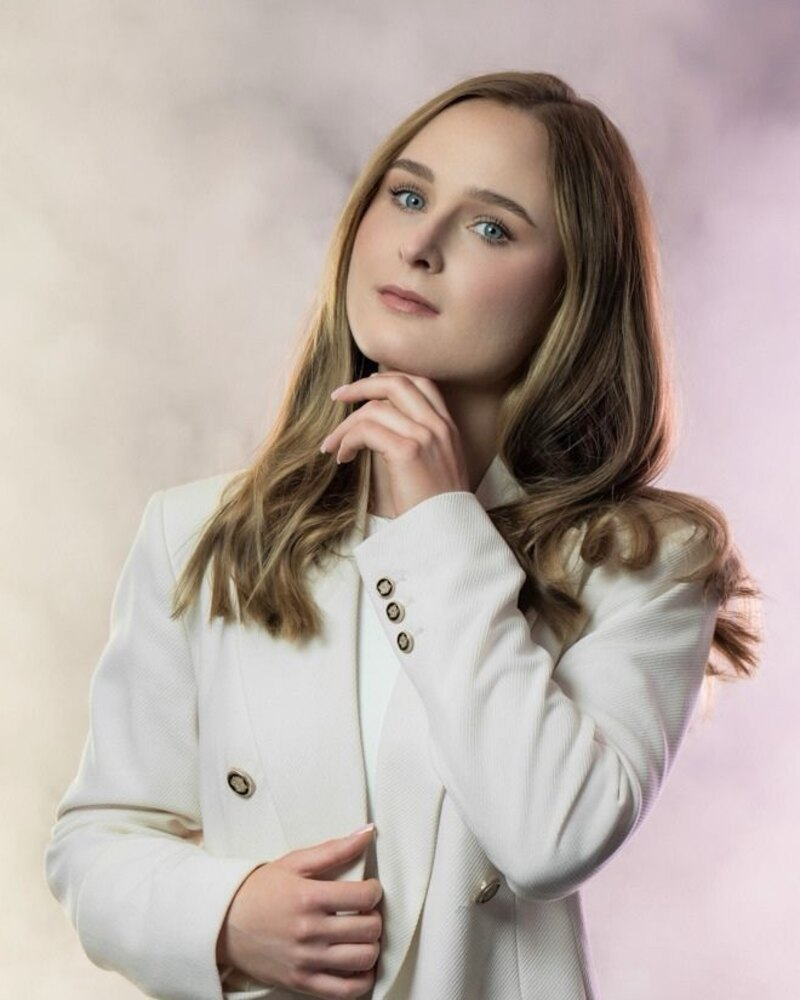
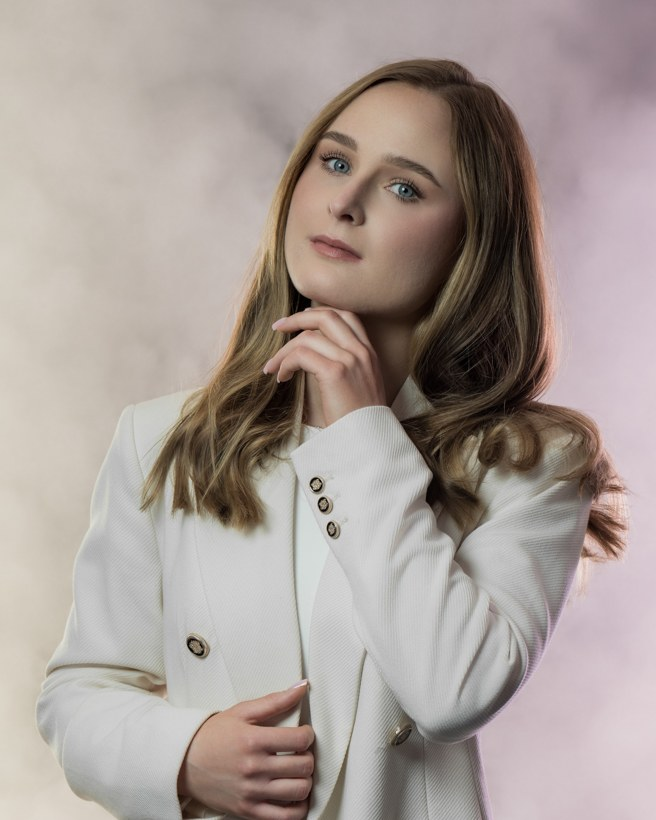
Genskab hero-billedet fra Wiktorias højopløste original
Det gamle hero var et 656x820-udsnit, der var skaleret op til 800x1000 og
komprimeret igen. De sidste 144 px indeholdt ingen detalje, de var opfundet,
og opskaleringen kostede skarphed i det der var tilbage.

Udsnittet er fundet ved at matche den gamle fil mod originalen med
normaliseret krydskorrelation: 656x820 ved (216,40), korrelation 0.986. Så
kompositionen er nøjagtig den samme som før, den er bare skåret fra
originalens pixels i stedet for fra en genkomprimeret kopi.

Målt som varians af Laplace ved den bredde billedet faktisk vises i:
  420 px (1x):  226 -> 274
  840 px (2x):   52 ->  93

Beholdt native 656x820 i stedet for at skalere op til 800. Målingen viser
at opskalering ikke tilføjer noget (278 mod 274 ved 420 px, altså indenfor
støjen), og et bredere udsnit ville have givet flere pixels men et mindre
motiv i rammen og dermed en anden komposition end den hun har set.

Filen blev samtidig 12 KB mindre. width/height i hero.html er rettet med.

diff --git a/layouts/partials/sections/hero.html b/layouts/partials/sections/hero.html
@@ -27,7 +27,7 @@
     <div class="hero-figure reveal d2">
       <div class="hero-frame">
         <img src="{{ hugo.Data.images.hero | relURL }}" alt="{{ $p.ownerName }}, {{ $seo.title }}"
-             width="800" height="1000" fetchpriority="high">
+             width="656" height="820" fetchpriority="high">
       </div>
       <div class="hero-badge">
         <span class="dot" aria-hidden="true"></span>
